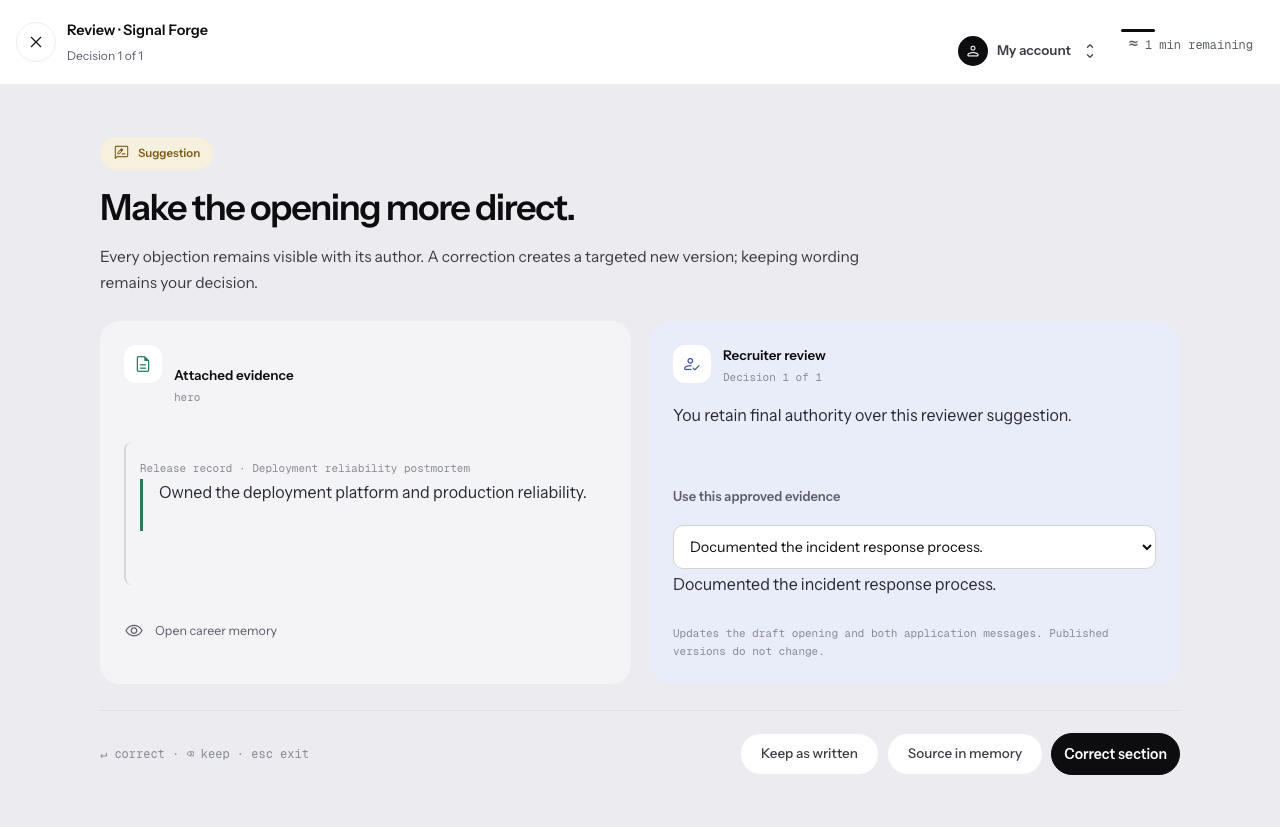
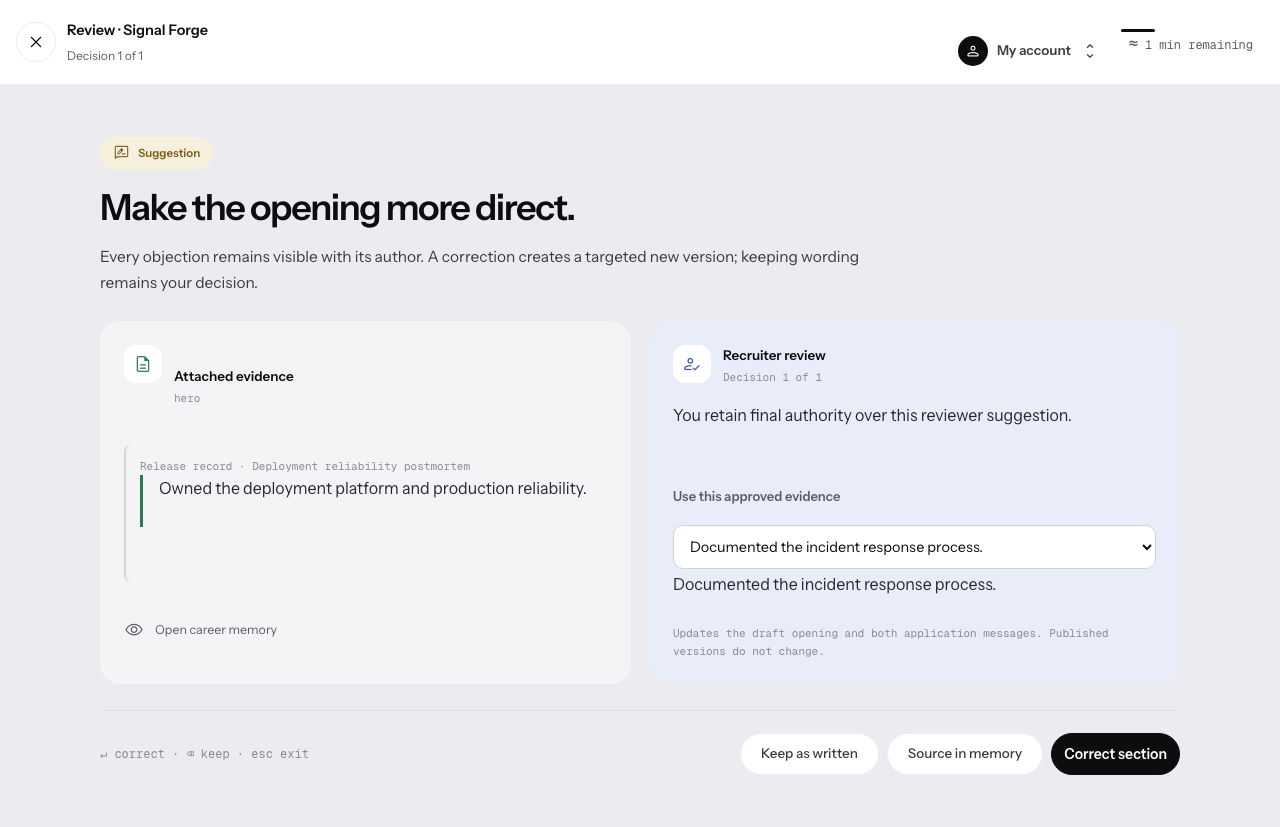
fix: keep correction source excerpts within mobile viewport

Changed region(s): [[0.125, 0.5441, 0.4688, 0.6046], [0.0938, 0.7557, 0.2188, 0.786], [0.125, 0.4534, 0.2188, 0.4837]]

diff --git a/tests/e2e/application-dossier.spec.ts b/tests/e2e/application-dossier.spec.ts
@@ -957,6 +957,11 @@ test('shows the source excerpt and submits the chosen approved replacement', asy
   await expect(page.getByLabel('Use this approved evidence')).toHaveValue(
     replacement.id,
   );
+  expect(
+    await page.evaluate(
+      () => document.documentElement.scrollWidth <= innerWidth,
+    ),
+  ).toBe(true);
   if (process.env.CAREER_OS_SELECTED_CORRECTION_SCREENSHOT)
     await page.screenshot({
       path: process.env.CAREER_OS_SELECTED_CORRECTION_SCREENSHOT.replace(

diff --git a/components/applications/application-flow.module.css b/components/applications/application-flow.module.css
@@ -499,6 +499,12 @@
   padding-left: 16px;
 }
 
+.reviewExcerpt small {
+  display: block;
+  white-space: normal;
+  overflow-wrap: anywhere;
+}
+
 .reviewReplacement select {
   width: 100%;
   min-width: 0;
